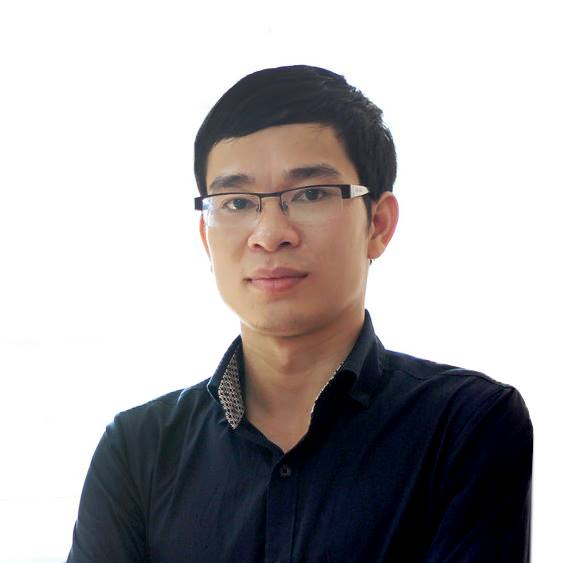
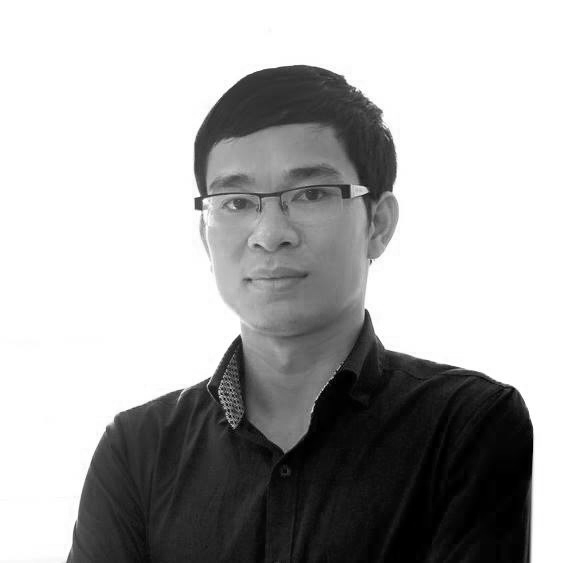
update

diff --git a/index-2.html b/index-2.html
@@ -117,9 +117,6 @@
           <img src="/img/thenextweb-logo.png" />
         </a>
         <a href="#">
-          <img src="/img/cointelegraph-logo.png" />
-        </a>
-        <a href="#">
           <img src="/img/the-merkle-logo.png" />
         </a>
         <a href="#">
@@ -559,7 +556,7 @@
           <a href="#"><img src="/img/news_inc_grey.png" height="30px" /></a>
         </div>
       </div>
-      <div class="row text-center">
+      <!-- <div class="row text-center">
         <div class="col-sm-3">
           <a href="#"><img src="/img/news_newsbtc_grey.png" height="30px" /></a>
         </div>
@@ -572,7 +569,7 @@
         <div class="col-sm-3">
           <a href="#"><img src="/img/the-merkle-logo.png" height="30px" /></a>
         </div>
-      </div>
+      </div> -->
     </div>
   </section>
 
@@ -601,7 +598,7 @@
           </div>
         </div>
         <div class="col-sm-4 team-member">
-          <img src="/img/team/3.jpg" width="100%" />
+          <img src="/img/team/11.jpg" width="100%" />
           <div class="team-member-info">
             <div class="name">Tung Hoang</div>
             <div class="title">PM & Co-found</div>
